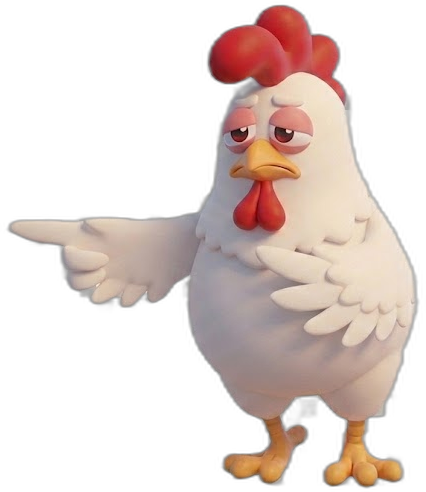
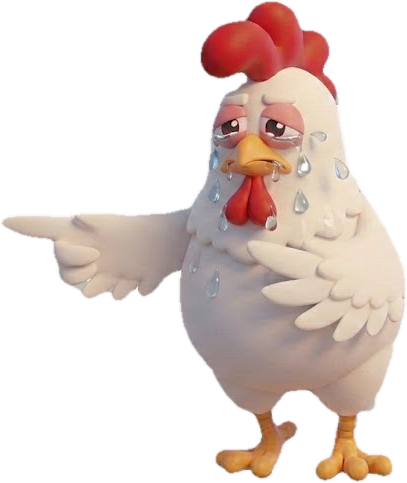
Nouvelle poule triste qui pointe, suppression de chicken-sad
Remplace chicken-point.png par la nouvelle image (fond retiré, bords
nettoyés). Supprime chicken-sad.png devenu inutile — une seule image
de feedback en cas de mauvaise réponse.

diff --git a/script.js b/script.js
@@ -1009,7 +1009,6 @@ function resolveRound() {
 function showFeedback(correct) {
   const overlay = document.getElementById("feedback-overlay");
   const fbChicken = document.getElementById("feedback-chicken");
-  const fbPoint = document.getElementById("feedback-chicken-point");
 
   if (correct) {
     score++;
@@ -1033,21 +1032,13 @@ function showFeedback(correct) {
     // Recenter globe on correct country + zoom in
     startRecenterAnimation(currentTarget);
 
-    // Sad chicken center bottom
-    fbChicken.src = "chicken-sad.png";
-    fbChicken.style.left = "50%";
-    fbChicken.style.top = "auto";
-    fbChicken.style.bottom = "5%";
-    fbChicken.style.transform = "translateX(-50%) scale(0)";
-
     // Pointing chicken next to the correct country
     const imgH = Math.min(window.innerWidth * 0.4, 220) * 0.8;
-    fbPoint.src = "chicken-point.png";
-    fbPoint.style.left = (window.innerWidth / 2 + 60) + "px";
-    fbPoint.style.top = (window.innerHeight / 2 - imgH / 2) + "px";
-    fbPoint.style.bottom = "auto";
-    fbPoint.style.transform = "scale(0)";
-    fbPoint.classList.add("show");
+    fbChicken.src = "chicken-point.png";
+    fbChicken.style.left = (window.innerWidth / 2 + 60) + "px";
+    fbChicken.style.top = (window.innerHeight / 2 - imgH / 2) + "px";
+    fbChicken.style.bottom = "auto";
+    fbChicken.style.transform = "scale(0)";
   }
 
   // Show feedback chicken with bounce-in
@@ -1057,7 +1048,6 @@ function showFeedback(correct) {
   setTimeout(() => {
     overlay.className = "";
     fbChicken.classList.remove("show");
-    fbPoint.classList.remove("show");
     recenterAnim = null;
     nextRound();
   }, feedbackDuration);
